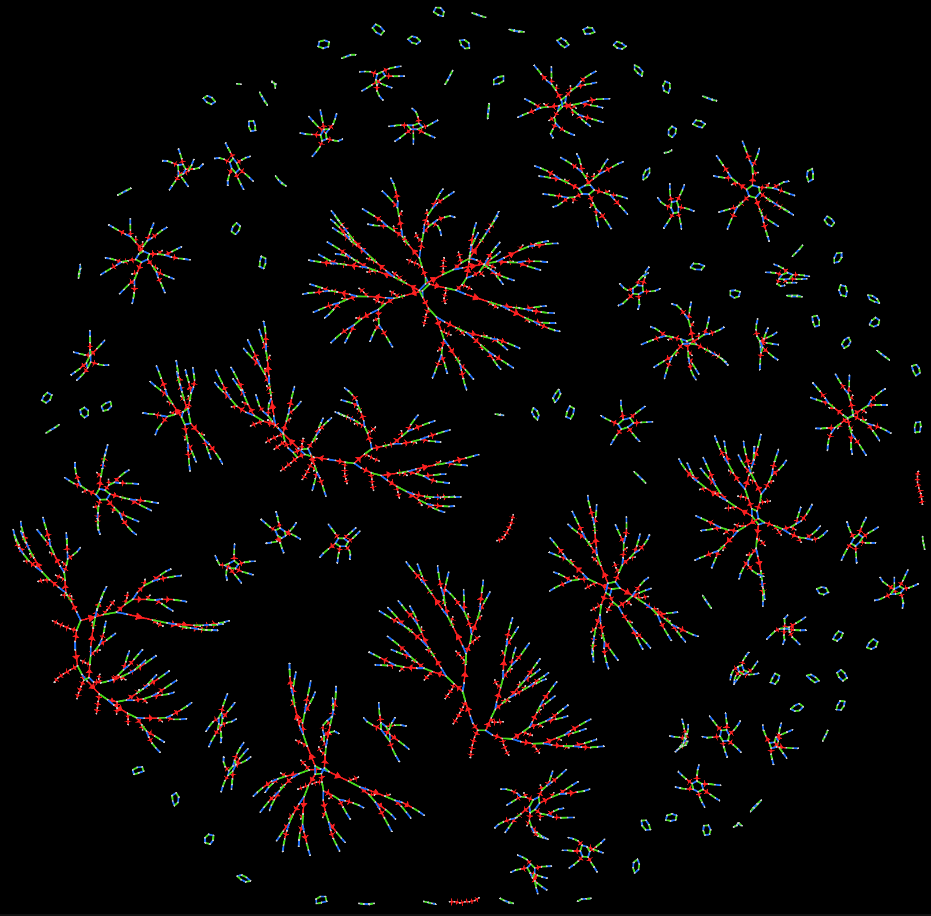
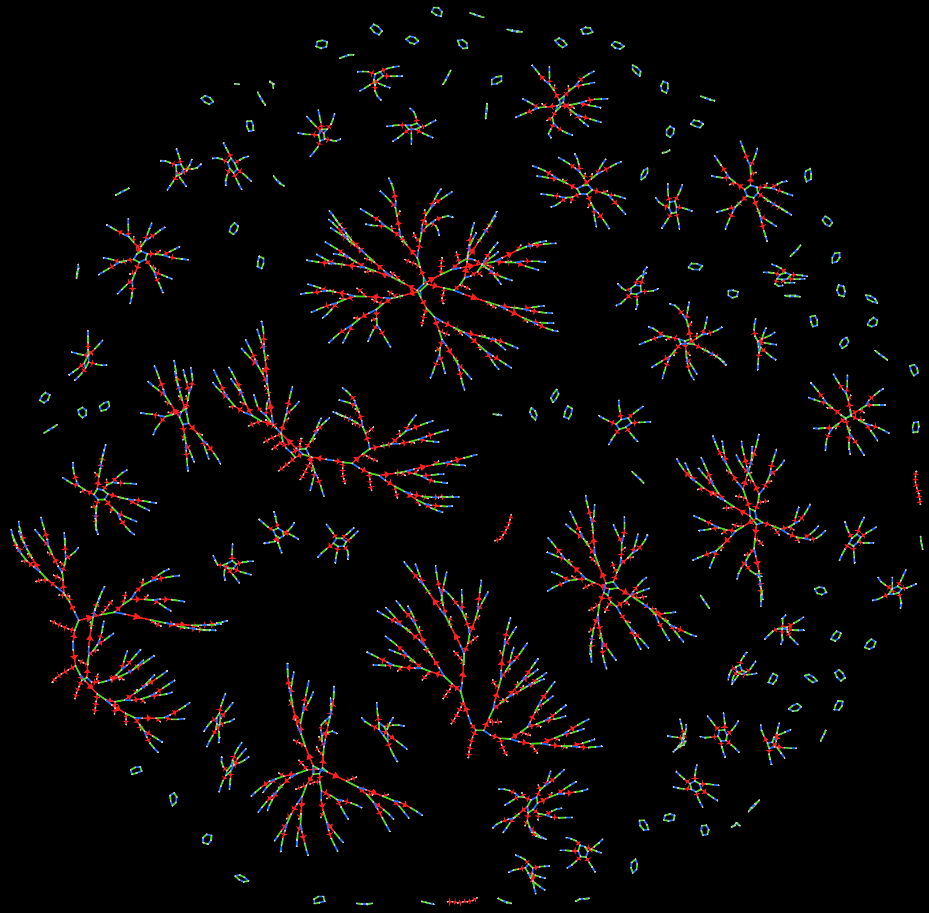
edited post

diff --git a/sections/posts/2025-11-16/2025-11-16.html b/sections/posts/2025-11-16/2025-11-16.html
@@ -1,4 +1,3 @@
-
 <!DOCTYPE html>
 <html lang="it">
 
@@ -21,7 +20,7 @@
 	    	<div class="date">2025-11-16</div>
     	</div>
     	<div class="content">
-    	<p>Some days ago I finally finished coding the first stable version of the interpreter for  <a href="https://github.com/RubenSab/Stackade">Stackade</a>, my programming language.</p>
+    	<p>Some days ago I finally finished coding the first stable version of the interpreter for  <a href="https://github.com/RubenSab/Stackade">{ Stackade }</a>, my programming language.</p>
 <p>Getting tired of testing solutions for increasingly complex and language-specific problems, a rather "simple" problem (or so I thought) piqued my interest, one of a more abstract nature.</p>
 <h1>A simple problem</h1>
 <p>The most natural structure you can work with in Stackade is the <strong>Stack</strong>, which is basically a <strong>pile of elements</strong> and nothing more.</p>
@@ -55,18 +54,22 @@
 
 <p>For visual clarity I have omitted the rules that produce the same state to which they are applied.</p>
 
-<p>But what if the strings were <b>longer</b> than just 4 letters? would there be more disjointed classes, or a <b>different structure</b> altogether?
-<p>Here are the state spaces for strings long <b>at most</b> 5, 6, 7 and 8 letters.
-<div class="gallery">
-	<img src="5.png" loading="lazy" alt="state space of ab to ababa">
-	<img src="6.png" loading="lazy" alt="state space of ab to ababab">
-	<img src="7.png" loading="lazy" alt="state space of ab to abababa">
-	<img src="8.png" loading="lazy" alt="state space of ab to abababab">
-</div>
-<p>The <b>complexity increases</b> dramatically at each iteration, together with the number of <b>disjointed classes</b>. Notice the green and blue <b>rings</b>: they are classes made up of the longest strings possible in each iteration, where each element is linked to the next one with either <code>swap</code> or <code>rot</code>.</p>
+<p>Now let's write strings with <b>three different letters</b> (a b and c) instead of just two and see what happens.</p>
+<img src="4.png" loading="lazy" alt="3 letters making 4 long words">
+<p>This state space <b>contains fully</b> the previous one (its main structure can be seen in the lower right corner), and it's more than thrice as big with the new emerging structures!</p>
+<p>Notice the green and blue <b>rings</b>: they are classes made up of the longest strings possible in each iteration, where each element is linked to the next one with either <code>swap</code> or <code>rot</code>.</p>
 <p>These rings <b>couldn't be made using the <code>dup</code></b> operation (shown as red arrows), because <code>dup</code></b> does not have an
-<i><b>inverse operation</b></i> (at least we haven't defined it), while both <code>swap</code> and <code>rot</code> have one, <b>being the inverses of themselves</b>.
+<i><b>inverse operation</b></i> (at least we haven't defined one), while both <code>swap</code> and <code>rot</code> have one, <b>being the inverses of themselves</b>.</p>
 
+<p>But what if the strings were <b>longer</b> than just 4 letters? would there be more disjointed classes, or a <b>different structure</b> altogether?
+<p>Here are the state spaces for strings made with a, b, c and long <b>at most</b> 5, 6, 7 and 8 letters.
+<div class="gallery">
+	<img src="5.png" loading="lazy" alt="3 letters making 5 long words">
+	<img src="6.png" loading="lazy" alt="3 letters making 6 long words">
+	<img src="7.png" loading="lazy" alt="3 letters making 7 long words">
+	<img src="8.png" loading="lazy" alt="3 letters making 8 long words">
+</div>
+<p>The <b>complexity increases</b> dramatically with each iteration, together with the number of <b>disjointed classes</b>.
 <h1>The generic problem is a logic labyrinth</h1>
 <p>As stated above, every problem compatible with our idea of solution have common features, strikingly similar to the structure of a <strong>labyrinth</strong>:</p>
 <ul>

diff --git a/sections/projects/projects.html b/sections/projects/projects.html
@@ -15,12 +15,12 @@
 
   	  <a href="../../index.html" class="back-link">{ Go home }</a>
 	  <h1>Projects</h1>
-	  <p>work in progress</p>
+	  <p>Here are my tech and math related projects.</p>
 
 	  <div class="post">
-  		<img src="" alt="post">
-  	  	<div class="title"><a href="">{ work in progress }</a></div>
-  	  	<div class="date">---</div>
+  		<img src="../posts/2025-11-16/8.png" alt="post 4" style="aspect-ratio: 21/9">
+  	  	<div class="title"><a href="../posts/2025-11-16/2025-11-16.html">{ Designing a Discrete-State Problem Solver }</a></div>
+  	  	<div class="date">2025-11-16</div>
   	  </div>
 
 	</div>

diff --git a/sections/posts/posts.html b/sections/posts/posts.html
@@ -15,7 +15,7 @@
       <a href="../../index.html" class="back-link">{ Go home }</a>
 
 	  <h1>Tinkering</h1>
-	  <p>Interesting concepts I stumbled upon or tinkered with</p>
+	  <p>Interesting concepts I stumbled upon or tinkered with.</p>
 
 	  <div class="post">
   		<img src="./2025-11-16/8.png" alt="post 4" style="aspect-ratio: 21/9">
